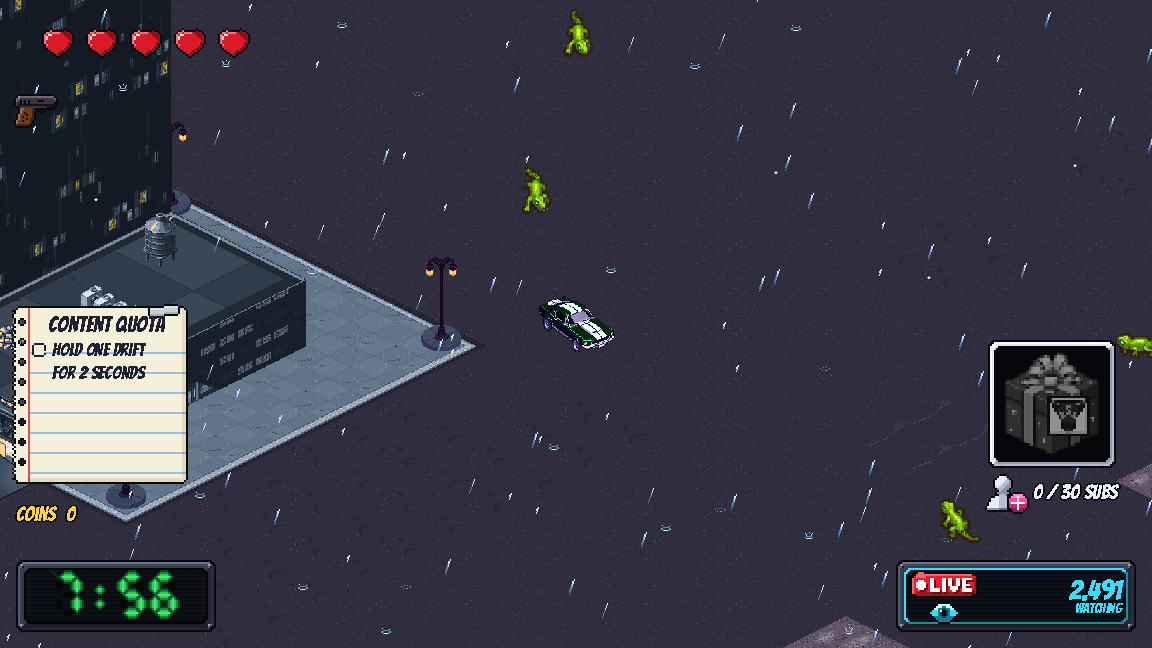
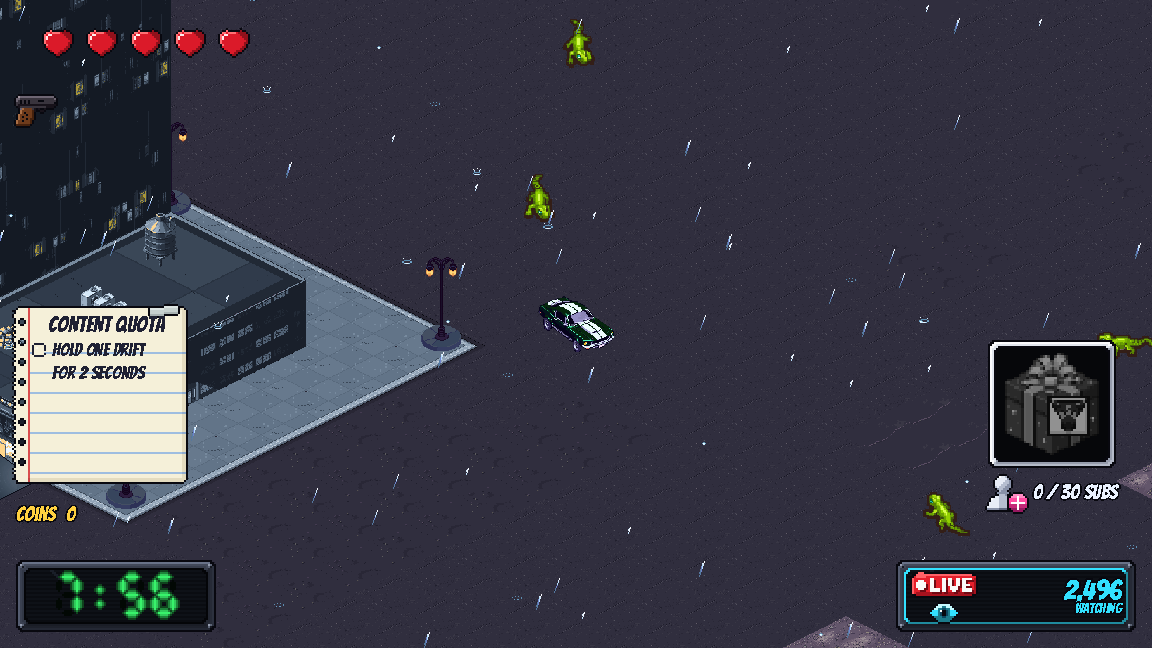
T-509: halve the raindrops on screen (board's tweak)
Claude-Session: https://claude.ai/code/session_01N2d996vfhYzGeir2NtRNR3

diff --git a/tasks/T-509-rain-art.md b/tasks/T-509-rain-art.md
@@ -1,7 +1,7 @@
 ---
 id: T-509
 title: Rain art with PixelLab
-status: flagged-for-review
+status: in-progress
 from: project-lead
 to: asset-generation
 lead: Greenbull
@@ -54,6 +54,10 @@ The Project Lead's replies to the board on this ticket, newest last, one entry p
 ### 2026-11-02, Open → In progress
 
 Started: rain art with PixelLab on top of T-507.
+
+### 2026-11-02, Flagged for review → In progress
+
+The board's playtest: half the raindrops. Tuning the number, then QA and merge.
 
 ## Style review
 
@@ -286,3 +290,6 @@ Done: rain art swapped in for the placeholder.
 **Tests**: `test_rain.gd` 20/20 (2 new: art in use, all 3 variants drawn); `game/tools/test_build_rain_*.py` 54 passed.
 
 **Documents affected**: `docs/visual-style.md`, `docs/level-design.md`, `game/docs/level/rain.md`.
+- 2026-11-02, flagged-for-review → in-progress: The board, 2026-11-02, after playing the combined build: rain less intense, about half the raindrops on screen. Everything else LGTM.
+
+Board's tweak (2026-11-02, after playing the combined build): "rain should be less intense (like half the raindrops currently on screen)". Changed data/rain.json drops_per_screen 400 to 200 (T-507 started at 220); splash numbers unchanged, since splashes come from ending drops, so they halve too. test_rain.gd 20/20. Street and rooftop screenshots retaken in art-archive/T-509/screenshots/. No PixelLab calls.

diff --git a/game/docs/level/rain.md b/game/docs/level/rain.md
@@ -43,4 +43,4 @@ Nothing else changes; an empty path keeps the placeholder.
 
 ## The art (T-509)
 
-`data/rain.json` names `drop_texture` (`res://art/rain/rain_drops.png`, a strip of `drop_variants` = 3 drops of 8 x 16) and `splash_texture` (`rain_splash.png`, a strip of `splash_frames` = 4 frames of 12 x 8, impact at the bottom middle). Each drop picks a variant at random. Empty texture names fall back to the code-drawn placeholder. Retuned for the art: 400 drops per 1080p screen, splash chance 0.45, most splashes 90, splash life 0.32 s. Frame time: `game/tools/bench_rain.sh`, rain's own work about 0.4 ms a frame, no measurable headless difference.
+`data/rain.json` names `drop_texture` (`res://art/rain/rain_drops.png`, a strip of `drop_variants` = 3 drops of 8 x 16) and `splash_texture` (`rain_splash.png`, a strip of `splash_frames` = 4 frames of 12 x 8, impact at the bottom middle). Each drop picks a variant at random. Empty texture names fall back to the code-drawn placeholder. Retuned for the art: 200 drops per 1080p screen (400 first, halved on the board's word), splash chance 0.45, most splashes 90, splash life 0.32 s. Frame time: `game/tools/bench_rain.sh`, rain's own work about 0.4 ms a frame, no measurable headless difference.

diff --git a/docs/level-design.md b/docs/level-design.md
@@ -86,7 +86,7 @@ How the run loads it: `game/docs/level/game-map.md`.
 
 ### Rain
 
-Built in T-507 (Decisions, "Rain over the map"); its PixelLab art came in T-509 (Visual style, Content, "The rain": 3 drop variants and a 4-frame splash, density raised to 400 drops a screen, splash chance 0.45) and the settings toggle in T-508. Proposals for the playtest.
+Built in T-507 (Decisions, "Rain over the map"); its PixelLab art came in T-509 (Visual style, Content, "The rain": 3 drop variants and a 4-frame splash, density 200 drops a screen after the board's halving, splash chance 0.45) and the settings toggle in T-508. Proposals for the playtest.
 
 - **What the player sees:** steady light rain for the whole run, over the whole visible map: thin streaks falling down the screen at a slant (leaning about 18 degrees, tops to the right), and small splashes where drops end, on whatever is drawn there, the street or a rooftop. It moves with the map as the camera follows the car.
 - **Where it draws:** over the map, the car and the enemies, under the HUD and every screen above it.
